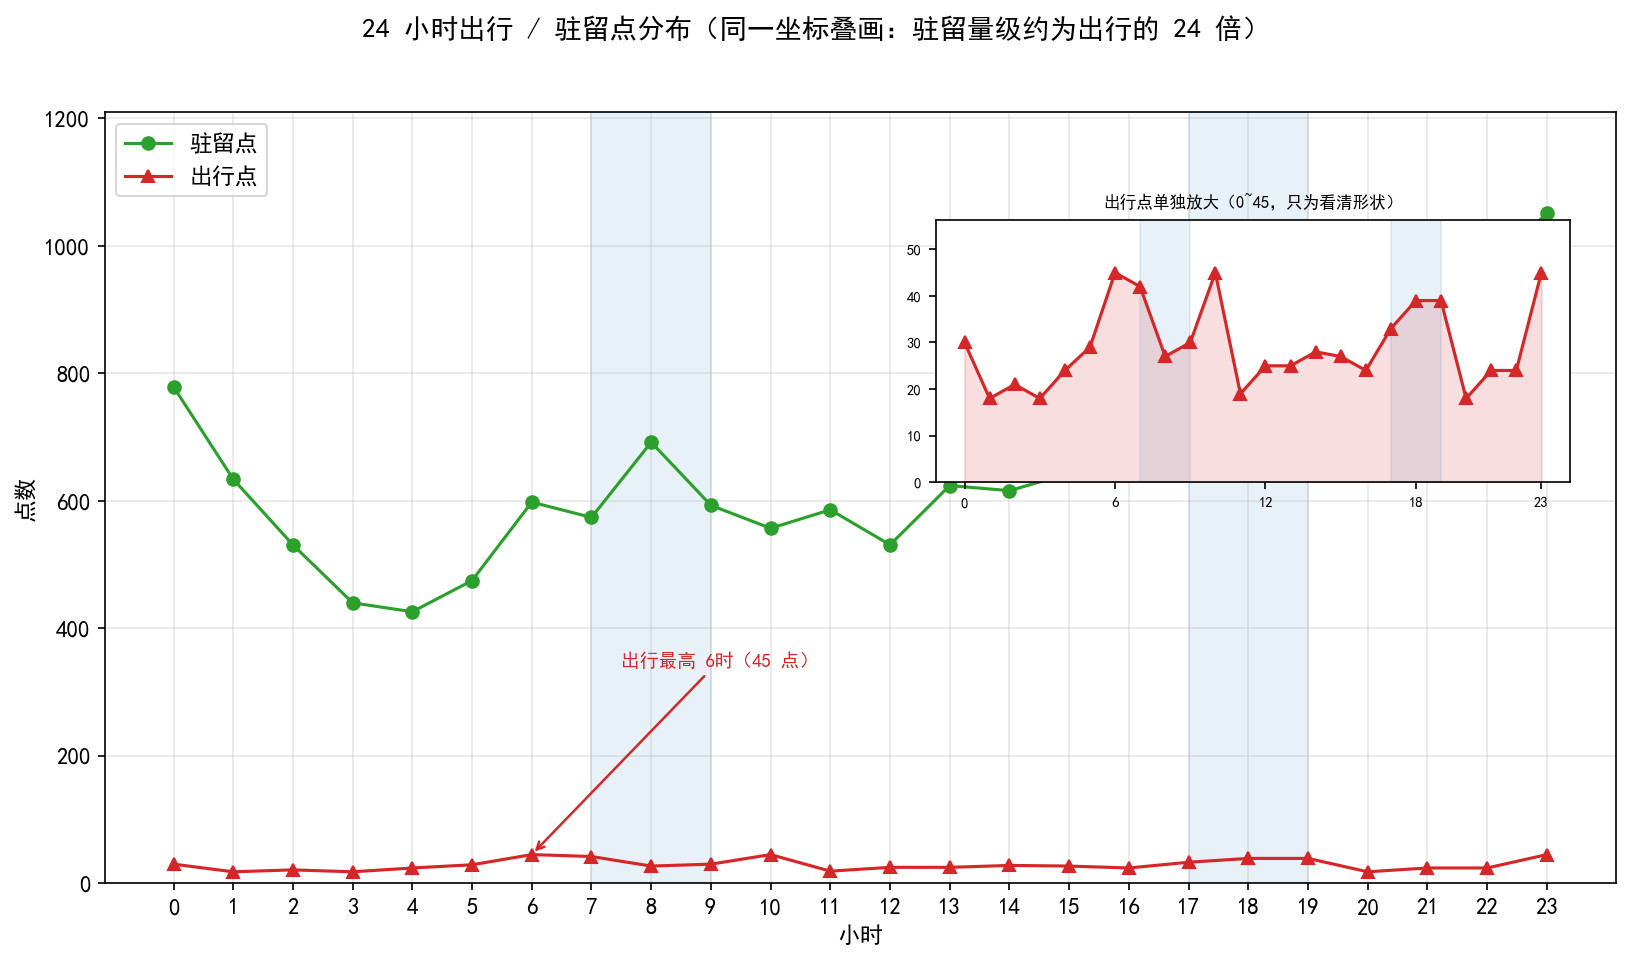
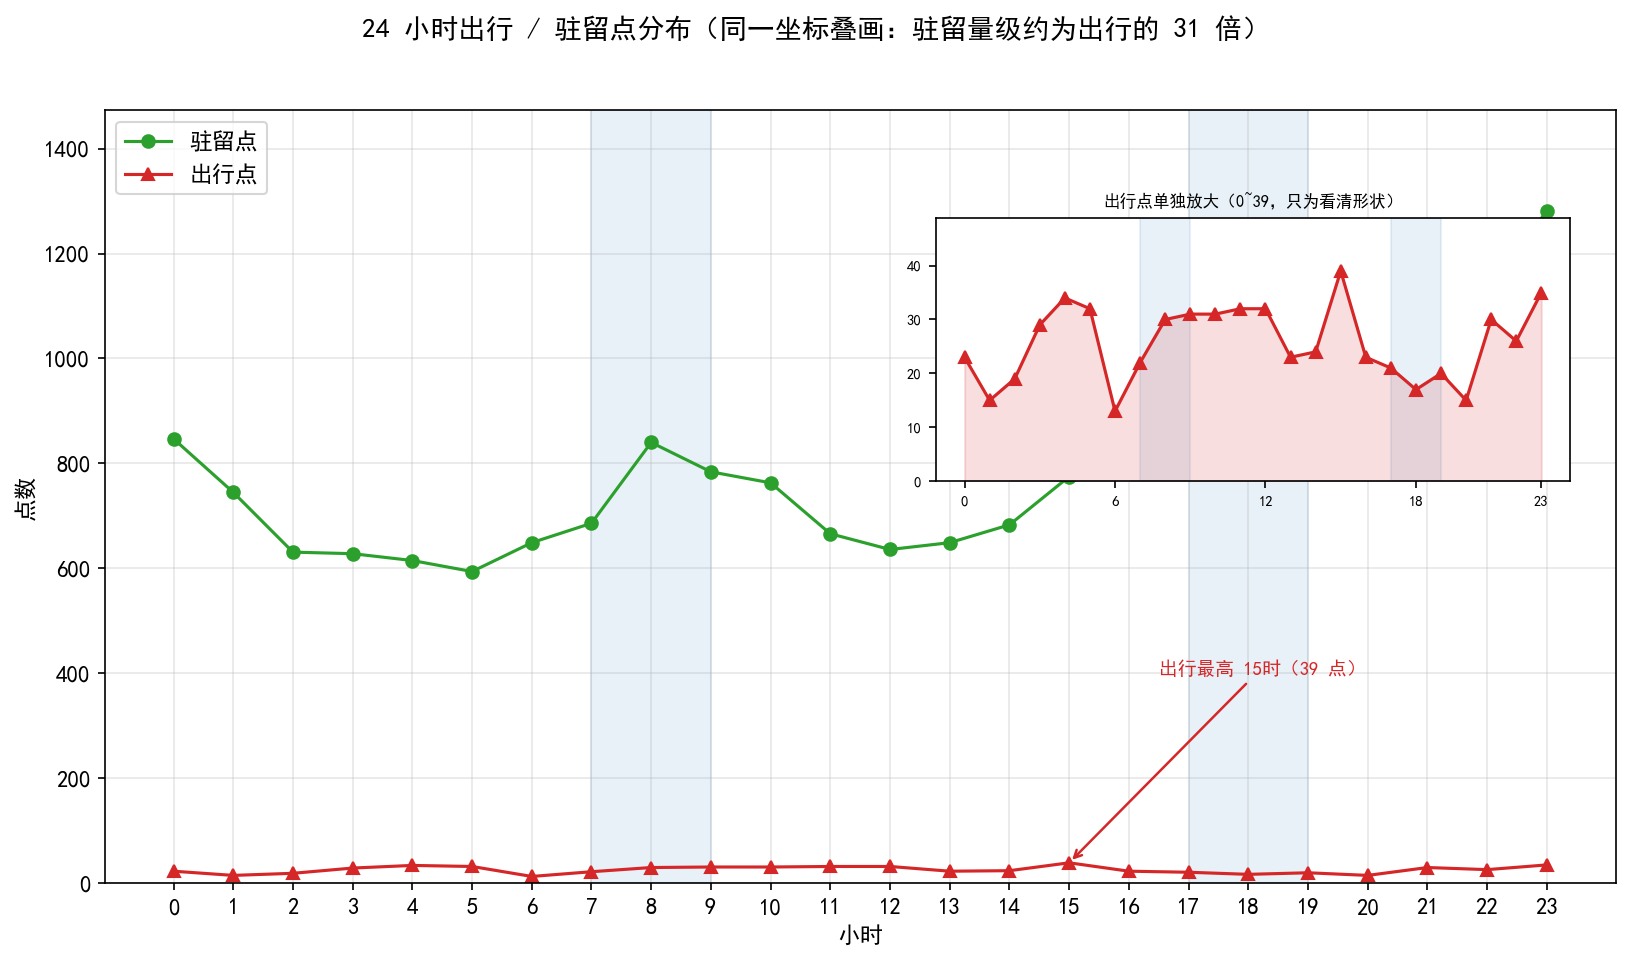
perf(抽样): 整用户抽样挪到 9 条规则全部跑完之后
原先排在规则6 之前，20000 行过完基站关联/分钟去重/单用户门槛只剩 17362 行，
产出率 87%，白抽 2638 行。挪到末尾后实得 19987 行 / 235 用户（原 196），
全流程 7.1 秒（清洗多花约 0.9 秒）。地铁这类要靠沿线多站点证据的类别从 5 段涨到 20 段。

diff --git a/data_clean.py b/data_clean.py
@@ -89,6 +89,10 @@ def sample_by_user(df):
     随机抽行会把同一用户的连续轨迹抽碎——一个原本 80 点的用户抽完只剩 3 点，
     规则9 之后只剩二十几个超级活跃用户。这里在合格用户里打乱顺序，整用户纳入直到
     累计点数达标，被选中用户的点一颗不拆。
+
+    抽样放在 9 条规则全部跑完之后：原先排在规则6 之前，抽的是"还没补到经纬度、
+    还没去重"的行，20000 行过完后面几条只剩 17362 行（产出率 87%），
+    少掉的 2638 行是白抽的。全量清洗在本机只多花约 1.6 秒，换来满额样本。
     """
     target = config.SAMPLE_ROWS
     if not target:
@@ -173,11 +177,11 @@ def clean_data():
     with Timer("规则4 时间转换"):
         df = rule4_timestamp(df)           # 规则4
     df = rule5_target_date(df)             # 规则5
-    df = sample_by_user(df)                # 教学抽样（非规则）
     df = rule6_join_station(df)            # 规则6
     df = rule7_sort(df)                    # 规则7
     df = rule8_dedup_minute(df)            # 规则8
     df = rule9_filter_sparse(df)           # 规则9
+    df = sample_by_user(df)                # 教学抽样（非规则，放在全部规则之后）
 
     out = df[config.CLEANED_COLS].copy()
     save_csv(out, config.CLEANED_DATA_FILE)

diff --git a/visualize.py b/visualize.py
@@ -64,7 +64,7 @@ def plot_stage3_pie(label_df):
 def plot_hour_line(label_df):
     """图2：24 小时出行/驻留叠在同一张图上（对齐讲义示例的排版）。
 
-    我们的出行点只有驻留点的二十几分之一（45 : 1052），直接共轴会把红线压成
+    我们的出行点只有驻留点的几十分之一（本次约 1/31），直接共轴会把红线压成
     贴在横轴上的一条平线，看着像画坏了。所以共轴保留示例的样子，
     另在右上角补一个小格把红线单独放大——小格只换纵轴刻度，不改任何数值。
     左右双轴（两条线各自一套刻度）不用：那会让两条线看起来可比，
